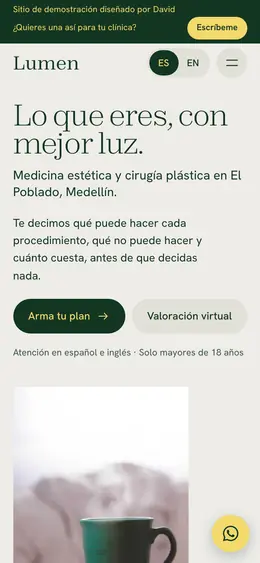
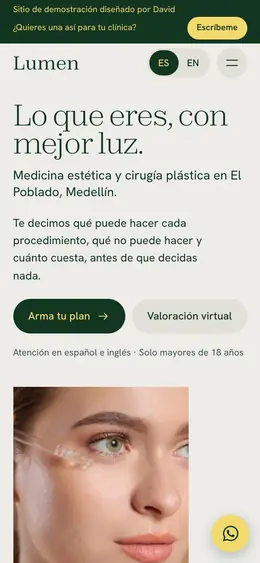
Mejoras de diseño y credibilidad
- "Recomendado" en vez de "El más elegido"; franja "Respondo el mismo día".
- Lumen vuelve a estar en línea: tarjeta, visor y selector como las demás.
- Hero en celular: titular y acción primero, selector después en una fila
  deslizable; el scroll se compensa para que no salte al cambiar de sector.
- Menú a pantalla completa en celular.
- Demos más bajas en celular (captura al 40 % del alto) y apiladas solo en
  computador.
- Las entradas al hacer scroll ya no esconden nada: el contenido es visible
  por defecto y también aparece si el visitante salta por encima.
- Monograma pequeño en "Sobre mí" y espacio para public/assets/foto-david.webp.
- Espacios entre secciones más compactos y capturas de las demos al día.

Changed region(s): [[0.0308, 0.6643, 0.7385, 1.0]]

diff --git a/src/styles/site.css b/src/styles/site.css
@@ -17,7 +17,7 @@
   --h-btn: var(--ink);
   --h-btn-ink: #fff;
   --gutter: clamp(16px, 3vw, 40px);
-  --section: clamp(72px, 11vw, 168px);
+  --section: clamp(64px, 8.5vw, 128px);
   --display: 'Red Hat Display', 'Display Fallback', system-ui, sans-serif;
   --text: 'Red Hat Text', system-ui, -apple-system, 'Segoe UI', sans-serif;
   --step-small: 0.875rem;
@@ -77,19 +77,44 @@ button, input, select, textarea { font: inherit; color: inherit; }
 .bar-nav { display: flex; gap: clamp(14px, 2vw, 28px); font-weight: 600; }
 .bar-nav a { text-decoration: none; min-height: 44px; display: inline-flex; align-items: center; padding-inline: 4px; }
 .bar-nav a:not(:last-child) { display: none; }
+.bar-nav { align-items: center; }
+.menu-btn { min-height: 40px; padding: 6px 14px; background: transparent; color: var(--h-ink); border: 2px solid var(--h-ink); font-family: var(--display); font-weight: 800; font-size: 1rem; letter-spacing: -.01em; cursor: pointer; transition: transform var(--t-press) var(--ease-out); }
+.menu-btn:active { transform: scale(.96); }
+.menu { width: 100vw; height: 100dvh; max-width: none; max-height: none; margin: 0; padding: 12px var(--gutter) calc(24px + env(safe-area-inset-bottom)); border: 0; background: var(--orange); color: var(--ink); }
+.menu[open] { display: flex; flex-direction: column; }
+.menu::backdrop { background: var(--orange); }
+.menu-top { display: flex; align-items: center; justify-content: space-between; gap: 16px; }
+.menu-logo { width: 204px; height: auto; }
+.menu-logo-cut { fill: var(--orange); }
+.menu-close { width: 48px; height: 48px; display: grid; place-items: center; background: var(--ink); color: #fff; border: 0; cursor: pointer; }
+.menu-close svg { width: 24px; height: 24px; }
+.menu nav { flex: 1; display: flex; align-items: center; }
+.menu-links { display: grid; gap: 4px; width: 100%; }
+.menu-links a { display: block; padding: 6px 0; font-family: var(--display); font-weight: 900; font-size: clamp(2.75rem, 13vw, 4rem); letter-spacing: -.04em; line-height: 1; text-decoration: none; }
+.menu-links li:last-child a { margin-top: 18px; display: inline-block; background: var(--ink); color: var(--orange); padding: 10px 16px 12px; }
+.menu-strip { font-weight: 600; font-size: .9375rem; }
+@media (prefers-reduced-motion: no-preference) {
+  .menu[open] .menu-links li { animation: menu-in 360ms var(--ease-out) both; animation-delay: calc(var(--n, 0) * 50ms + 40ms); }
+  .menu-links li:nth-child(2) { --n: 1; } .menu-links li:nth-child(3) { --n: 2; } .menu-links li:nth-child(4) { --n: 3; }
+}
+@keyframes menu-in { from { opacity: 0; transform: translateY(16px); } }
 @media (hover: hover) and (pointer: fine) { .bar-nav a:hover { text-decoration: underline; text-underline-offset: .3em; text-decoration-thickness: 2px; } }
 
 /* Hero */
 .hero { padding: 10px var(--gutter) 0; overflow: clip; }
+.hero-copy { display: flex; flex-direction: column; }
+.picker { margin-top: 24px; }
+.picker-sub { font-size: .9375rem; font-weight: 500; margin: -4px 0 10px; }
 .picker legend { font-family: var(--display); font-weight: 800; font-size: 1.0625rem; letter-spacing: -.01em; padding: 0; margin-bottom: 8px; }
-.chips { display: flex; flex-wrap: wrap; gap: 6px; }
-.chip { position: relative; cursor: pointer; }
+.chips { display: flex; gap: 6px; overflow-x: auto; margin-inline: calc(var(--gutter) * -1); padding: 2px var(--gutter) 4px; scrollbar-width: none; scroll-padding-inline: var(--gutter); }
+.chips::-webkit-scrollbar { display: none; }
+.chip { position: relative; cursor: pointer; flex: none; }
 .chip input { position: absolute; inset: 0; opacity: 0; margin: 0; cursor: pointer; }
-.chip span { display: flex; align-items: center; min-height: 40px; padding: 6px 12px; font-size: .9375rem; font-weight: 600; line-height: 1.1; color: var(--h-ink); border: 2px solid var(--h-ink); transition: background-color var(--t-hover) ease, color var(--t-hover) ease, transform var(--t-press) var(--ease-out); }
+.chip span { display: flex; align-items: center; min-height: 40px; padding: 6px 10px; font-size: .875rem; font-weight: 600; line-height: 1.1; white-space: nowrap; color: var(--h-ink); border: 2px solid var(--h-ink); transition: background-color var(--t-hover) ease, color var(--t-hover) ease, transform var(--t-press) var(--ease-out); }
 .chip input:checked + span { background: var(--h-btn); color: var(--h-btn-ink); border-color: var(--h-btn); }
 .chip input:focus-visible + span { outline: 3px solid var(--h-ink); outline-offset: 2px; }
 .chip:active span { transform: scale(.97); }
-.hero-swap { margin-top: 16px; min-height: 10.75rem; }
+.hero-swap { margin-top: 8px; }
 .hero h1 { font-size: clamp(2.05rem, 9.5vw, 2.6rem); line-height: 1; letter-spacing: -.035em; }
 .hero-sub { margin-top: 12px; font-size: 1.0625rem; line-height: 1.4; font-weight: 500; max-width: 42ch; }
 .hero-actions { margin-top: 12px; display: flex; flex-wrap: wrap; align-items: center; gap: 0 18px; }
@@ -138,19 +163,19 @@ button, input, select, textarea { font: inherit; color: inherit; }
 /* Demos: paneles a pantalla completa que se apilan */
 .demos { padding-top: 0; }
 .demos-head { padding-bottom: clamp(28px, 4vw, 56px); }
-.demo-panel { position: sticky; top: 0; background: var(--p-bg); color: var(--p-ink); min-height: 82svh; overflow: hidden; }
-.demo-link { display: flex; flex-direction: column; min-height: 82svh; text-decoration: none; color: inherit; padding: clamp(24px, 4vw, 56px) var(--gutter) 0; max-width: 1440px; margin-inline: auto; }
+.demo-panel { position: relative; background: var(--p-bg); color: var(--p-ink); overflow: hidden; }
+.demo-link { display: flex; flex-direction: column; text-decoration: none; color: inherit; padding: 28px var(--gutter) 0; max-width: 1440px; margin-inline: auto; }
 .demo-link:focus-visible { outline-offset: -8px; }
-.demo-text h3 { font-size: clamp(2.125rem, 1.4rem + 3.6vw, 4.75rem); }
+.demo-text h3 { font-size: clamp(1.875rem, 1.3rem + 3.6vw, 4.75rem); }
 .demo-tag { font-size: .55em; font-weight: 700; letter-spacing: -.02em; white-space: nowrap; }
-.demo-hook { margin-top: 12px; font-size: var(--step-lead); line-height: 1.28; font-weight: 500; max-width: 30ch; }
+.demo-hook { margin-top: 8px; font-size: 1.0625rem; line-height: 1.35; font-weight: 500; max-width: 34ch; }
 .demo-name { margin-top: 8px; font-size: var(--step-small); font-weight: 500; }
-.demo-btn { background: var(--p-btn); color: var(--p-btn-ink); margin-top: 16px; min-height: 50px; }
+.demo-btn { background: var(--p-btn); color: var(--p-btn-ink); margin-top: 14px; min-height: 48px; }
 .demo-link:hover .demo-btn { background: var(--p-btn); }
-.demo-visual { position: relative; flex: 1; margin-top: 24px; min-height: 300px; }
+.demo-visual { position: relative; margin-top: 22px; height: clamp(220px, 40svh, 340px); }
 .demo-desktop { display: none; }
-.demo-phone { position: absolute; left: 50%; top: 0; width: 60vw; max-width: 280px; transform: translateX(-50%); transition: transform 320ms var(--ease-out); }
-.fine { font-size: var(--step-small); color: var(--soft); padding-block: 20px 0; max-width: 72ch; margin-left: 0; }
+.demo-phone { position: absolute; left: 50%; top: 0; width: 56vw; max-width: 250px; transform: translateX(-50%); transition: transform 320ms var(--ease-out); }
+.fine { font-size: var(--step-small); color: var(--soft); padding-block: 16px 0; max-width: 72ch; margin-left: 0; }
 
 /* Lo que recibes */
 .receive { padding-block: var(--section) calc(var(--section) * .8); }
@@ -263,8 +288,11 @@ button, input, select, textarea { font: inherit; color: inherit; }
 /* Sobre mí */
 .about { padding-block: var(--section); }
 .about-grid { display: grid; gap: 28px; }
-.portrait { aspect-ratio: 4 / 5; background: var(--orange); display: flex; align-items: flex-end; overflow: hidden; width: min(72%, 360px); }
-.portrait span { font-family: var(--display); font-weight: 900; font-size: clamp(6rem, 30vw, 12rem); letter-spacing: -.06em; line-height: .78; padding: 0 0 12px 10px; color: var(--ink); }
+.about-head { display: flex; align-items: center; gap: 16px; }
+.about-head:has(.about-photo) { flex-direction: column; align-items: flex-start; gap: 20px; }
+.monogram { flex: none; display: grid; place-items: center; width: 68px; height: 68px; background: var(--orange); color: var(--ink); font-family: var(--display); font-weight: 900; font-size: 1.625rem; letter-spacing: -.05em; line-height: 1; }
+.about-photo { width: min(64%, 300px); aspect-ratio: 4 / 5; object-fit: cover; background: var(--tone); }
+.about-text > .about-p:first-child { margin-top: 0; }
 .about-p { margin-top: 16px; max-width: 52ch; }
 .about-text h3 { margin-top: 28px; font-size: var(--step-lead); letter-spacing: -.02em; }
 .about-work { margin-top: 10px; display: grid; gap: 6px; max-width: 52ch; }
@@ -376,10 +404,10 @@ html[lang='en'] .close-big { font-size: calc((100vw - var(--gutter) * 2) / 3.86)
 
 /* Entradas: solo con JS y solo si se permite movimiento */
 @media (prefers-reduced-motion: no-preference) {
-  .reveal-ready [data-reveal] { opacity: 0; transform: translateY(18px); transition: opacity 420ms var(--ease-out), transform 520ms var(--ease-out); }
-  .reveal-ready [data-reveal].is-in { opacity: 1; transform: none; }
-  .reveal-ready .pb-chatlog .bubble { opacity: 0; transform: translateY(10px); transition: opacity 260ms var(--ease-out), transform 320ms var(--ease-out); transition-delay: calc(var(--i) * 70ms + 120ms); }
-  .reveal-ready .pb-chat.is-in .bubble { opacity: 1; transform: none; }
+  [data-reveal] { transition: opacity 420ms var(--ease-out), transform 520ms var(--ease-out); }
+  [data-reveal].will-reveal { opacity: 0; transform: translateY(18px); }
+  .pb-chatlog .bubble { transition: opacity 260ms var(--ease-out), transform 320ms var(--ease-out); transition-delay: calc(var(--i) * 70ms + 120ms); }
+  .pb-chat.will-reveal .bubble { opacity: 0; transform: translateY(10px); }
   .hero-phone { animation: phone-in 620ms var(--ease-out) both 80ms; }
 }
 @keyframes phone-in { from { transform: translateY(36px); } }
@@ -417,6 +445,9 @@ html[lang='en'] .close-big { font-size: calc((100vw - var(--gutter) * 2) / 3.86)
   .viewer-bar { grid-template-columns: 1fr auto auto auto; grid-template-areas: 'name tab want close'; padding: 10px 16px; gap: 10px; }
   .viewer-name { font-size: 1.125rem; }
   .bar-nav a:not(:last-child) { display: inline-flex; }
+  .menu-btn { display: none; }
+  .chips { flex-wrap: wrap; overflow: visible; margin-inline: 0; padding-inline: 0; }
+  .demo-visual { height: clamp(280px, 40svh, 380px); }
 }
 
 @media (min-width: 900px) {
@@ -424,6 +455,8 @@ html[lang='en'] .close-big { font-size: calc((100vw - var(--gutter) * 2) / 3.86)
   .bar { padding-top: 18px; }
   .hero { display: grid; grid-template-columns: minmax(0, 1fr) minmax(0, 590px); gap: clamp(24px, 3vw, 48px); padding-top: clamp(20px, 2.4vw, 36px); align-items: stretch; }
   .hero-copy { padding-bottom: 56px; align-self: center; }
+  .picker { order: -1; margin-top: 0; }
+  .picker-sub { display: none; }
   .hero h1 { font-size: clamp(2.75rem, 4.85vw, 5.25rem); line-height: .98; }
   .hero-swap { min-height: clamp(17rem, 22vw, 23rem); margin-top: 26px; }
   .hero-sub { font-size: var(--step-lead); line-height: 1.3; margin-top: 18px; }
@@ -441,11 +474,13 @@ html[lang='en'] .close-big { font-size: calc((100vw - var(--gutter) * 2) / 3.86)
   .pb-insta .pb-art, .pb-old .pb-art { flex: 0 0 42%; order: 2; }
   .pb-insta .pb-text, .pb-old .pb-text { flex: 1; }
 
-  .demo-panel { min-height: 100svh; }
+  .demo-panel { position: sticky; top: 0; min-height: 100svh; }
   .demo-link { display: grid; grid-template-columns: 5fr 7fr; gap: 48px; min-height: 100svh; padding-block: clamp(40px, 6vh, 80px) 0; align-items: center; }
   .demo-panel:nth-child(even) .demo-text { order: 2; }
   .demo-text { padding-bottom: 64px; }
   .demo-visual { margin-top: 0; height: 100%; min-height: 560px; }
+  .demo-hook { font-size: var(--step-lead); line-height: 1.28; max-width: 30ch; margin-top: 12px; }
+  .demo-link { padding-top: clamp(40px, 6vh, 80px); }
   .demo-desktop { display: block; position: absolute; left: 0; top: 50%; width: 100%; transform: translateY(-50%); }
   .demo-panel:nth-child(odd) .demo-desktop { left: 6%; width: 100%; }
   .demo-phone { left: auto; right: auto; width: 232px; top: 50%; transform: translateY(-38%); }
@@ -484,9 +519,10 @@ html[lang='en'] .close-big { font-size: calc((100vw - var(--gutter) * 2) / 3.86)
   .offer h2 { font-size: clamp(6rem, 11.5vw, 11.5rem); }
   .offer-side { margin-top: 0; }
 
-  .about-grid { grid-template-columns: 4fr 7fr; gap: clamp(40px, 7vw, 120px); align-items: start; }
-  .portrait { width: 100%; }
-  .portrait span { font-size: clamp(8rem, 15vw, 15rem); }
+  .about-grid { grid-template-columns: 5fr 7fr; gap: clamp(40px, 6vw, 96px); align-items: start; }
+  .about-head { flex-direction: column; align-items: flex-start; gap: 24px; }
+  .monogram { width: 96px; height: 96px; font-size: 2.25rem; }
+  .about-photo { width: min(100%, 360px); }
   .about-p { font-size: var(--step-lead); line-height: 1.32; max-width: 42ch; }
   .about-work { grid-template-columns: 1fr 1fr; max-width: none; gap: 8px 24px; }
 
@@ -498,3 +534,4 @@ html[lang='en'] .close-big { font-size: calc((100vw - var(--gutter) * 2) / 3.86)
   .foot-links { grid-template-columns: repeat(3, 1fr); }
   .nf-big { font-size: 34vw; }
 }
+section[tabindex="-1"]:focus { outline: none; }

diff --git a/src/scripts/main.ts b/src/scripts/main.ts
@@ -22,16 +22,51 @@ const $$ = <T extends Element = HTMLElement>(s: string, r: ParentNode = document
 const reduced = matchMedia('(prefers-reduced-motion: reduce)').matches;
 
 /* ---------- Entradas al hacer scroll: una vez, y rápidas ----------
-   Va primero y solo esconde el contenido cuando ya puede mostrarlo (clase reveal-ready).
-   Si algo más adelante falla, ninguna sección se queda en blanco. */
-if (!reduced && 'IntersectionObserver' in window) {
-  const io = new IntersectionObserver((es) => {
-    es.forEach((e) => {
-      if (e.isIntersecting) { e.target.classList.add('is-in'); io.unobserve(e.target); }
+   Todo es visible por defecto. Solo los bloques que al cargar están debajo de la pantalla
+   reciben will-reveal, y el mismo observador que se la puso se la quita al llegar a ellos.
+   Si algo falla, ningún bloque se queda escondido. */
+// Un bloque se muestra apenas su borde superior llega a la pantalla, y también si quedó
+// por encima porque el visitante saltó (ancla, menú o deslizamiento rápido). Nunca se queda oculto.
+if (!reduced) {
+  let pending = $$('[data-reveal]').filter((el) => el.getBoundingClientRect().top > innerHeight);
+  pending.forEach((el) => el.classList.add('will-reveal'));
+  let queued = false;
+  const check = () => {
+    queued = false;
+    const limit = innerHeight * 0.94;
+    pending = pending.filter((el) => {
+      if (el.getBoundingClientRect().top < limit) { el.classList.remove('will-reveal'); return false; }
+      return true;
     });
-  }, { rootMargin: '0px 0px -6% 0px', threshold: 0.05 });
-  $$('[data-reveal]').forEach((el) => io.observe(el));
-  document.documentElement.classList.add('reveal-ready');
+    if (!pending.length) removeEventListener('scroll', onScroll);
+  };
+  const onScroll = () => { if (!queued) { queued = true; requestAnimationFrame(check); } };
+  addEventListener('scroll', onScroll, { passive: true });
+  addEventListener('hashchange', check);
+  addEventListener('beforeprint', () => pending.forEach((el) => el.classList.remove('will-reveal')));
+}
+
+/* ---------- Menú en celular: pantalla completa, se cierra al tocar un enlace ---------- */
+const menu = $<HTMLDialogElement>('[data-menu]');
+if (menu) {
+  $('[data-menu-open]')?.addEventListener('click', () => menu.showModal());
+  $('[data-menu-close]')?.addEventListener('click', () => menu.close());
+  $$<HTMLAnchorElement>('[data-menu-link]', menu).forEach((a) => {
+    a.addEventListener('click', (e) => {
+      e.preventDefault();
+      menu.close();
+      // Salto directo: el menú tapa la pantalla al cerrarse y un scroll suave de varias
+      // pantallas tardaría segundos. El foco pasa a la sección para quien usa teclado.
+      const target = document.querySelector<HTMLElement>(a.hash);
+      requestAnimationFrame(() => {
+        if (!target) return;
+        target.scrollIntoView({ behavior: 'instant' });
+        target.setAttribute('tabindex', '-1');
+        target.focus({ preventScroll: true });
+        history.replaceState(null, '', a.hash);
+      });
+    });
+  });
 }
 
 /* ---------- Eventos: Cloudflare no guarda nada que identifique a la persona ---------- */
@@ -121,6 +156,10 @@ function setSector(id: string, opts: { silent?: boolean } = {}) {
   const copy = data.sectors[id];
   applyTheme(id);
   const swap = () => {
+    // En celular el selector está debajo del titular: si el titular cambia de alto,
+    // se compensa el scroll para que los botones no se muevan bajo el dedo.
+    const picker = $('.picker');
+    const before = picker?.getBoundingClientRect().top ?? 0;
     heroTitle.textContent = copy.title;
     heroSub.textContent = copy.sub;
     heroList.innerHTML = '';
@@ -132,6 +171,8 @@ function setSector(id: string, opts: { silent?: boolean } = {}) {
       li.append(span);
       heroList.append(li);
     });
+    const shift = (picker?.getBoundingClientRect().top ?? 0) - before;
+    if (shift && !opts.silent && matchMedia('(max-width: 899px)').matches) window.scrollBy({ top: shift, behavior: 'instant' });
   };
   const swapEls = [heroTitle, heroSub, heroList];
   if (reduced || opts.silent) {

diff --git a/src/i18n/en.ts b/src/i18n/en.ts
@@ -14,9 +14,9 @@ export const en: Copy = {
     description: 'Custom websites that bring customers to your WhatsApp. Try working demos, run your own numbers and get a free sample for your business in 48 hours.',
     ogAlt: 'David Hernández, websites for businesses. A website that brings customers to your WhatsApp.',
   },
-  strip: 'I reply within 2 hours, Monday to Saturday',
+  strip: 'I reply the same day, Monday to Saturday',
   skip: 'Skip to content',
-  nav: { demos: 'Demos', packages: 'Pricing', faq: 'Questions', cta: 'Message me' },
+  nav: { demos: 'Demos', packages: 'Pricing', faq: 'Questions', cta: 'Message me', menu: 'Menu', menuLabel: 'Open the menu', close: 'Close the menu' },
   wa: {
     base: 'Hi David, I saw your site and I’d like a website for my',
     fallbackNoun: 'business',
@@ -32,6 +32,7 @@ export const en: Copy = {
   },
   hero: {
     question: 'What kind of business do you run?',
+    pickerSub: 'See what yours could look like',
     primary: 'Message me on WhatsApp',
     secondary: 'See the demos',
     seeThis: 'Open this demo',
@@ -188,7 +189,7 @@ export const en: Copy = {
     title: 'Pricing',
     intro: 'Approximate US dollar prices (1 USD = 3,160 COP). The “from” only moves if you ask for something beyond the package, and I’ll tell you before we start.',
     from: 'from',
-    badge: 'Most chosen',
+    badge: 'Recommended',
     tabsLabel: 'Compare packages',
     ctaPrefix: 'I want',
     packages: {
@@ -211,7 +212,8 @@ export const en: Copy = {
   },
   about: {
     title: 'I’m David.',
-    photoAlt: 'Space for David Hernández’s photo, showing his initials for now',
+    photoAlt: 'David Hernández',
+    monogramAlt: 'David Hernández’s initials',
     paragraphs: [
       'David Hernández Castro, based in Colombia and studying systems engineering. I build websites for service businesses because too many good ones live and die by Instagram and word of mouth.',
       'I don’t have a long client list to show you yet. So I give you demos you can actually use, and a free sample before you pay a cent.',
@@ -238,7 +240,7 @@ export const en: Copy = {
   close: {
     word: 'Message',
     wordLabel: 'Message me on WhatsApp',
-    lead: 'One message is all it takes. I reply within 2 hours, Monday to Saturday.',
+    lead: 'One message is all it takes. I reply the same day, Monday to Saturday.',
     formTitle: 'Rather tell me a bit more?',
     formIntro: 'Fill this in and I’ll have your message ready. Nothing is sent until you hit send in your WhatsApp.',
     name: 'Your name',
@@ -252,7 +254,7 @@ export const en: Copy = {
     consentB: '.',
     submit: 'Open WhatsApp with my message',
     previewLabel: 'Your message so far',
-    reply: 'I reply within 2 hours, Monday to Saturday.',
+    reply: 'I reply the same day, Monday to Saturday.',
     errors: {
       name: 'Please enter your name.',
       business: 'Please enter your business name.',

diff --git a/src/i18n/es.ts b/src/i18n/es.ts
@@ -14,9 +14,9 @@ export const es = {
     description: 'Diseño webs a la medida de tu sector que traen clientes por WhatsApp. Mira demos reales, calcula si te da y recibe un ejemplo gratis en 48 horas.',
     ogAlt: 'David Hernández, webs para negocios. Tu negocio, con una web que trae clientes por WhatsApp.',
   },
-  strip: 'Respondo en menos de 2 horas, de lunes a sábado',
+  strip: 'Respondo el mismo día, de lunes a sábado',
   skip: 'Saltar al contenido',
-  nav: { demos: 'Demos', packages: 'Paquetes', faq: 'Preguntas', cta: 'Escríbeme' },
+  nav: { demos: 'Demos', packages: 'Paquetes', faq: 'Preguntas', cta: 'Escríbeme', menu: 'Menú', menuLabel: 'Abrir el menú', close: 'Cerrar el menú' },
   wa: {
     base: 'Hola David, vi tu página y quiero una web para mi',
     fallbackNoun: 'negocio',
@@ -32,6 +32,7 @@ export const es = {
   },
   hero: {
     question: '¿Qué negocio tienes?',
+    pickerSub: 'Mira cómo se vería la tuya',
     primary: 'Escríbeme por WhatsApp',
     secondary: 'Ver demos',
     seeThis: 'Ver esta demo',
@@ -188,7 +189,7 @@ export const es = {
     title: 'Paquetes',
     intro: 'Precios en pesos colombianos. El “desde” cambia solo si me pides algo fuera de lo que dice cada paquete, y te lo digo antes de empezar.',
     from: 'desde',
-    badge: 'El más elegido',
+    badge: 'Recomendado',
     tabsLabel: 'Comparar paquetes',
     ctaPrefix: 'Quiero',
     packages: {
@@ -211,7 +212,8 @@ export const es = {
   },
   about: {
     title: 'Soy David.',
-    photoAlt: 'Espacio para la foto de David Hernández, por ahora con sus iniciales',
+    photoAlt: 'David Hernández',
+    monogramAlt: 'Iniciales de David Hernández',
     paragraphs: [
       'David Hernández Castro. Ingeniero de sistemas en formación. Diseño webs para negocios en Colombia porque veo muchos negocios buenos que dependen de Instagram y del voz a voz.',
       'Aún no tengo una lista larga de clientes para mostrarte. Por eso te enseño demos que puedes usar y te hago un ejemplo gratis antes de que pagues un peso.',
@@ -238,7 +240,7 @@ export const es = {
   close: {
     word: 'Escríbeme',
     wordLabel: 'Escríbeme por WhatsApp',
-    lead: 'Un mensaje y ya. Te respondo en menos de 2 horas, de lunes a sábado.',
+    lead: 'Un mensaje y ya. Te respondo el mismo día, de lunes a sábado.',
     formTitle: '¿Prefieres contarme un poco más?',
     formIntro: 'Llena esto y te dejo el mensaje listo. Nada se envía hasta que le des enviar en tu WhatsApp.',
     name: 'Tu nombre',
@@ -252,7 +254,7 @@ export const es = {
     consentB: '.',
     submit: 'Abrir WhatsApp con mi mensaje',
     previewLabel: 'Así va tu mensaje',
-    reply: 'Te respondo en menos de 2 horas, de lunes a sábado.',
+    reply: 'Te respondo el mismo día, de lunes a sábado.',
     errors: {
       name: 'Escribe tu nombre.',
       business: 'Escribe el nombre de tu negocio.',

diff --git a/src/i18n/shared.ts b/src/i18n/shared.ts
@@ -24,7 +24,7 @@ export const DEMOS: DemoMeta[] = [
   { id: 'restaurante', name: 'La Plancha 70', url: 'https://restauranteejemplodc.netlify.app', live: true, iframe: true, bg: '#c81e12', ink: '#ffffff', btn: '#f7b91c', btnInk: '#1b110c' },
   { id: 'inmobiliaria', name: 'Altamira Propiedades', url: 'https://altamira-demo.vercel.app', live: true, iframe: true, bg: '#dedad3', ink: '#0f0f0d', btn: '#235a4c', btnInk: '#ffffff' },
   { id: 'veterinaria', name: 'Arrayán Clínica Veterinaria', url: 'https://arrayan-vet-demo.vercel.app', live: true, iframe: true, bg: '#15291f', ink: '#f3f4ee', btn: '#d6f07a', btnInk: '#13251b' },
-  { id: 'estetica', name: 'Lumen Clínica Estética', url: 'https://lumen-estetica-demo.vercel.app', live: false, iframe: true, bg: '#133621', ink: '#f6f3e6', btn: '#f4d96c', btnInk: '#133621' },
+  { id: 'estetica', name: 'Lumen Clínica Estética', url: 'https://lumen-estetica-demo.vercel.app', live: true, iframe: true, bg: '#133621', ink: '#f6f3e6', btn: '#f4d96c', btnInk: '#133621' },
 ];
 
 export const SECTOR_THEME: Record<SectorId, { bg: string; ink: string; btn: string; btnInk: string }> = {

diff --git a/README.md b/README.md
@@ -30,8 +30,8 @@ npm run brand     # regenera logo, favicon e imágenes para compartir
 - **Dominio, WhatsApp, analítica:** `site.config.mjs`. Es el único archivo que hay que tocar al comprar el dominio. Recuerda actualizar también `SITE_URL` en Cloudflare si usas redirecciones.
 - **Textos:** `src/i18n/es.ts` y `src/i18n/en.ts`.
 - **Demos, colores por sector y precios:** `src/i18n/shared.ts`.
-- **Tu foto:** en `src/components/Home.astro`, busca `class="portrait"` y cambia el bloque con las iniciales por un `<img>` en proporción 4:5.
-- **Encender Lumen cuando vuelva a estar en línea:** en `src/i18n/shared.ts` pon `live: true` en `estetica`. Luego corre `npm run capture` para actualizar la captura con la versión publicada.
+- **Tu foto:** guarda tu foto como `public/assets/foto-david.webp`, vertical en proporción 4:5 (por ejemplo 800 × 1000 px), y vuelve a hacer el build. Si el archivo existe se muestra la foto; si no, el monograma DH.
+- **Apagar o encender una demo:** en `src/i18n/shared.ts`, `live: false` hace que su tarjeta lleve a WhatsApp en vez de abrir la demo. Después de cambiar una demo, corre `npm run capture` para actualizar sus capturas.
 
 ## Enlaces por sector
 
